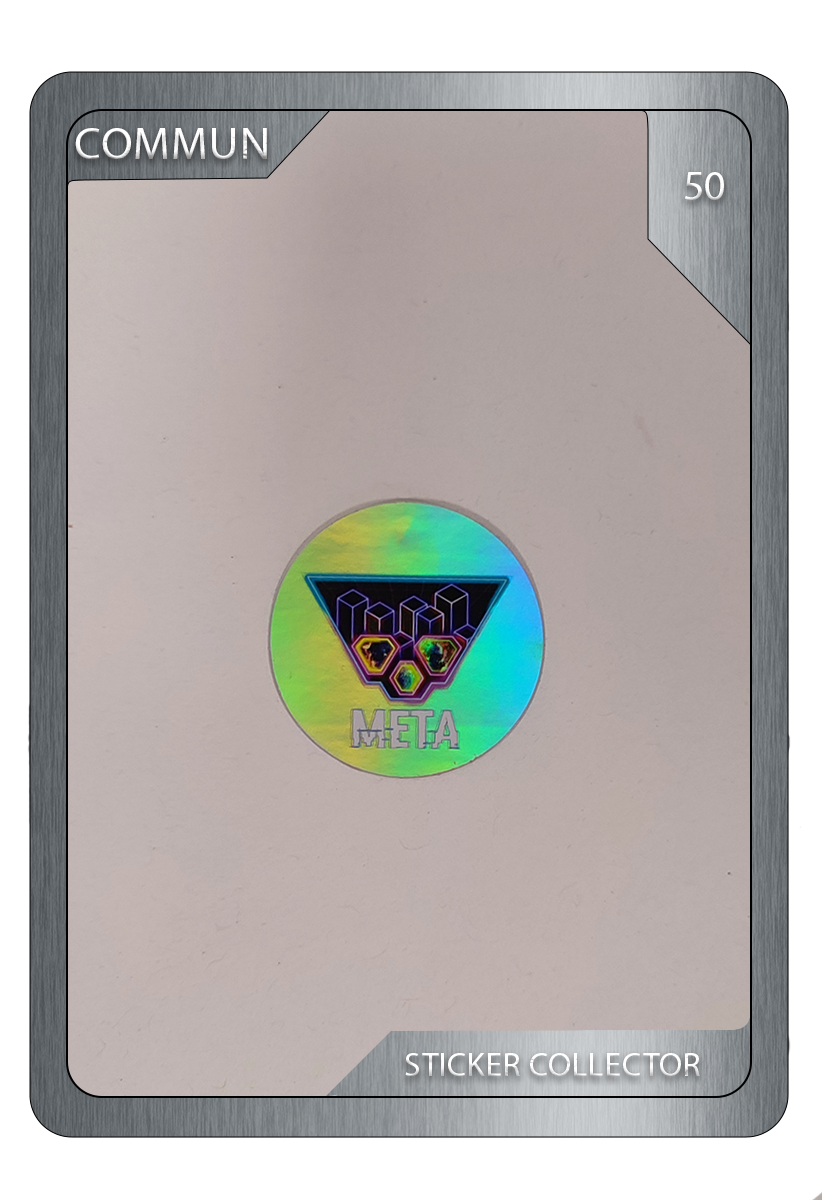
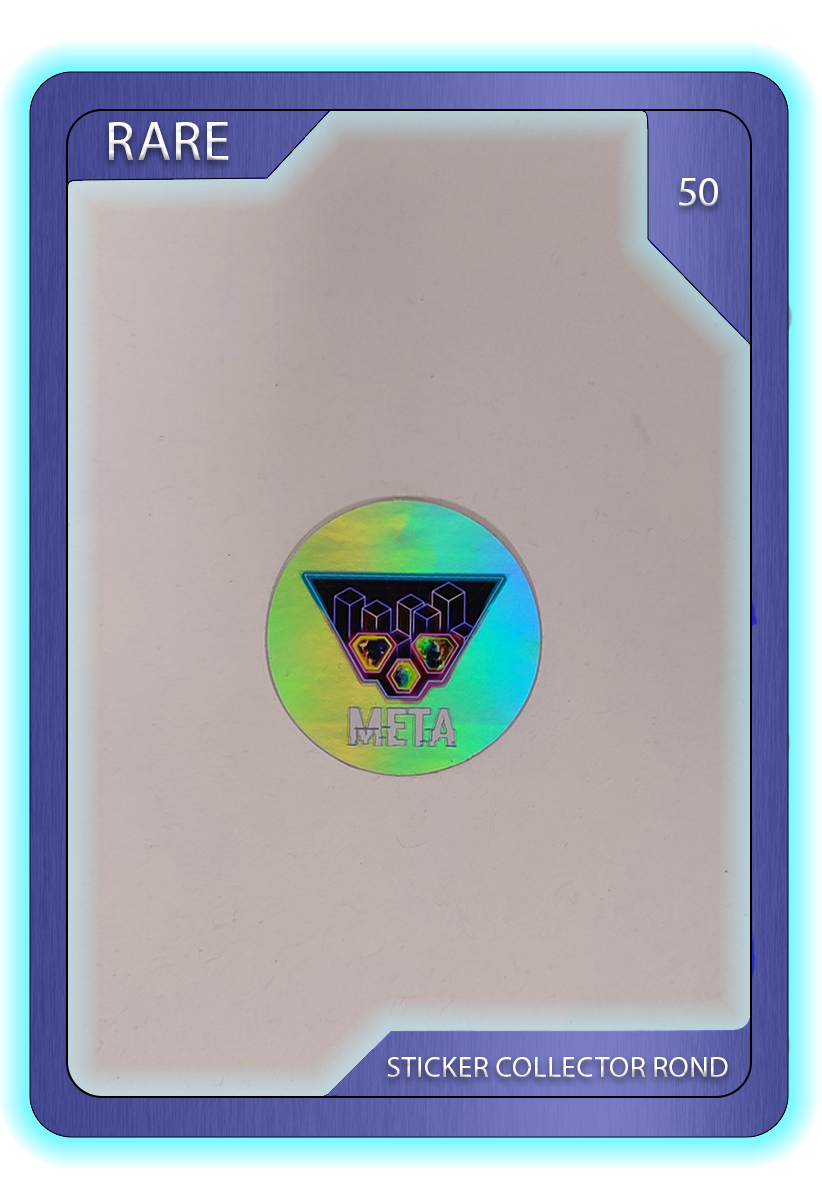
add cards

diff --git a/src/views/Goodies.vue b/src/views/Goodies.vue
@@ -15,6 +15,7 @@
         >
           <v-card width="min(90%,500px)" class="mx-auto" color="#ffffff00" flat>
             <v-img :src="card.card"></v-img>
+            <strong class="hacked"> {{ card.place }} </strong>
           </v-card>
         </v-col>
       </v-row>
@@ -29,45 +30,49 @@ export default {
     return {
       // 3 unique | 2 legendaire | 2 rare | 3 commun
       cards: [
+        // unique
         {
           card: require("@/assets/goodies/reveal/stephane.png"),
-          place: "",
+          place: "Grosse activite",
         },
         {
-          card: require("@/assets/goodies/cartes_goodies_reverse_unique.png"),
-          place: "",
+          card: require("@/assets/goodies/cartes_goodies_reverse_unique.png"), // enceinte
+          place: "Grosse activite",
         },
         {
-          card: require("@/assets/goodies/cartes_goodies_reverse_unique.png"),
-          place: "",
+          card: require("@/assets/goodies/cartes_goodies_reverse_unique.png"), // Vélo custom META
+          place: "Grosse activite",
         },
+        // Légendaire
         {
           card: require("@/assets/goodies/reveal/pommeau.png"),
-          place: "",
+          place: "Petite activite",
         },
         {
           card: require("@/assets/goodies/reveal/calendrier.png"),
-          place: "",
+          place: "Petite activite",
         },
-        {
-          card: require("@/assets/goodies/cartes_goodies_reverse_rare.png"),
-          place: "",
-        },
-        {
-          card: require("@/assets/goodies/cartes_goodies_reverse_rare.png"),
-          place: "",
-        },
-        {
-          card: require("@/assets/goodies/reveal/sticker.png"),
-          place: "",
-        },
+        // Rare
         {
           card: require("@/assets/goodies/reveal/sticker_collector.png"),
-          place: "",
+          place: "?",
         },
         {
-          card: require("@/assets/goodies/reveal/sticker_rect.png"),
-          place: "",
+          card: require("@/assets/goodies/reveal/stickers_collector_rect.png"),
+          place: "?",
+        },
+        {
+          card: require("@/assets/goodies/cartes_goodies_reverse_rare.png"), // bande LEDs
+          place: "Grosse activite - Jeux quotidiens",
+        },
+        {
+          card: require("@/assets/goodies/cartes_goodies_reverse_rare.png"), // Bandana
+          place: "Grosse activite",
+        },
+        // commun
+        {
+          card: require("@/assets/goodies/reveal/sticker.png"),
+          place: "Stand",
         },
       ],
     };
@@ -75,5 +80,11 @@ export default {
 };
 </script>
 
-<style>
+<style scoped>
+.hacked {
+  font-family: "hackedregular";
+  font-size: 1.25em;
+  color: white;
+  text-shadow: -1px 0 black, 0 1px black, 1px 0 black, 0 -1px black;
+}
 </style>
